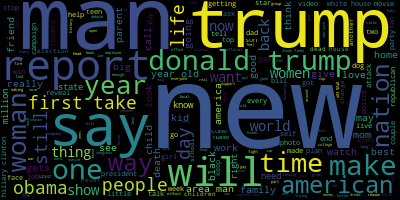
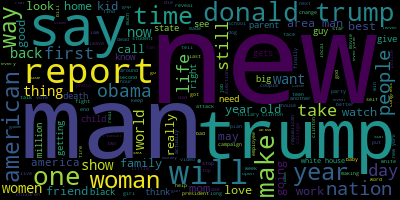
Removed stopwords

diff --git a/Code/Dataset/news-headlines-dataset-for-sarcasm-detection/data_summary.py b/Code/Dataset/news-headlines-dataset-for-sarcasm-detection/data_summary.py
@@ -1,5 +1,5 @@
 import pandas as pd
-from wordcloud import WordCloud
+from wordcloud import WordCloud, STOPWORDS
 import spacy
 from sklearn.feature_extraction.text import CountVectorizer
 from sklearn.decomposition import LatentDirichletAllocation
@@ -46,7 +46,7 @@ data_frame['len'] = data_frame[comment_column].apply(lambda x: len(x.split(" "))
 
 # print(data_frame.head())
 text = ' '.join(data_frame[comment_column])
-wordcloud = WordCloud().generate(text)
+wordcloud = WordCloud(stopwords=STOPWORDS).generate(text)
 dataset_name = dataset_path[:dataset_path.rfind('.')]
 wordcloud.to_file(dataset_name + ".png")
 
